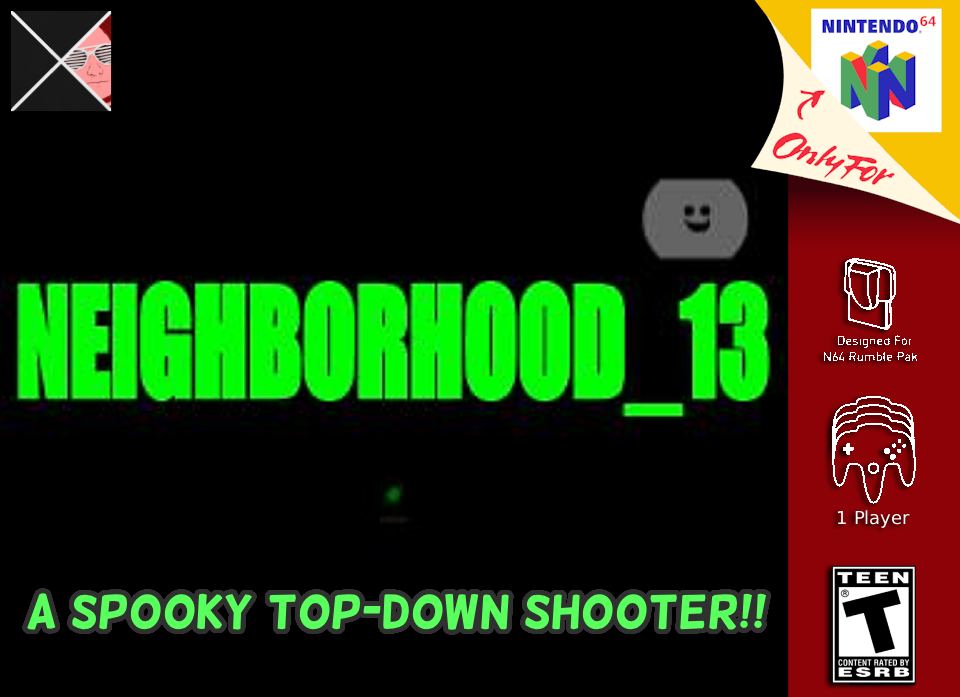
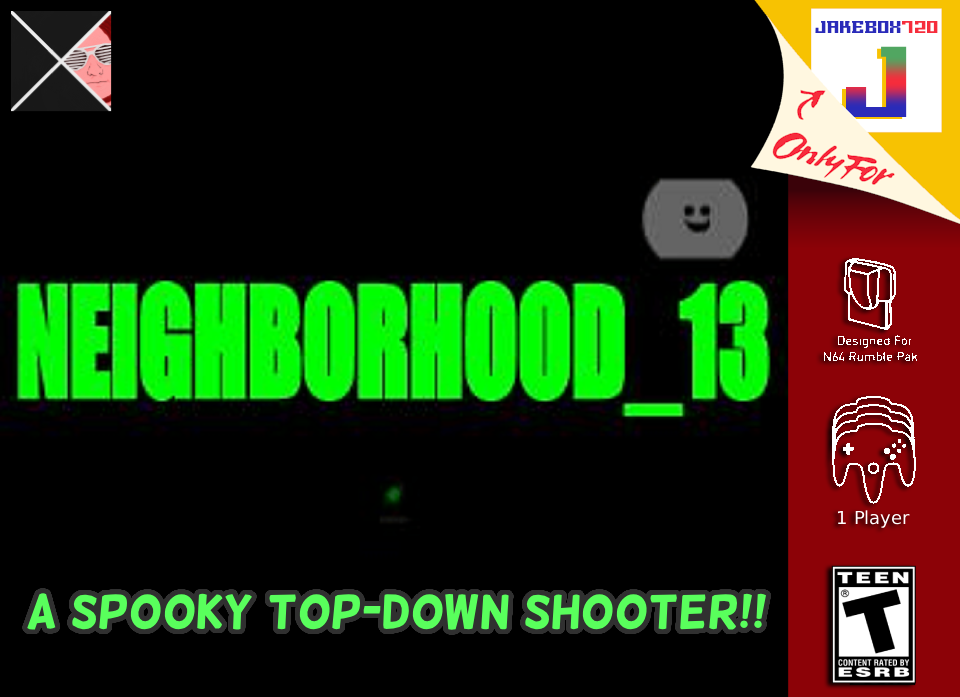
finished mvp

Changed region(s): [[0.8438, 0.0301, 1.0, 0.1808]]

diff --git a/index.html b/index.html
@@ -13,27 +13,52 @@
             </div>
         </header>
         <section>
+            <div class="section_header">
+                <img src="images\main_menu_button.webp" alt="Games">
+                <h2>Games</h2>
+            </div>
             <div class="game_boxes">
-                <a href="https://jakebarnes.itch.io/n13">
-                        <img src="images\game_boxes\Neighborhood_13.webp" alt="Neighborhood 13">
+                <a href="https://jakebarnes.itch.io/boosty-loops-blueprint">
+                        <img src="images\game_boxes\BoostyLoopsBlueprint.webp" alt="Boosty Loops Blueprint">
                 </a>
-                <a href="https://jakebarnes.itch.io/n13">
-                        <img src="images\game_boxes\Neighborhood_13.webp" alt="Neighborhood 13">
+                <a href="https://zuhairghias.itch.io/minion-no1067809362">
+                        <img src="images\game_boxes\Minion.webp" alt="Minion">
                 </a>
-                <a href="https://jakebarnes.itch.io/n13">
-                        <img src="images\game_boxes\Neighborhood_13.webp" alt="Neighborhood 13">
+                <a href="https://zuhairghias.itch.io/bug-bash">
+                        <img src="images\game_boxes\Bug Bash.webp" alt="Bug Bash">
                 </a>
-                <a href="https://jakebarnes.itch.io/n13">
-                        <img src="images\game_boxes\Neighborhood_13.webp" alt="Neighborhood 13">
+                <a href="https://jakebarnes.itch.io/mantis-man">
+                        <img src="images\game_boxes\Mantis Man.webp" alt="Mantis Man">
                 </a>
-                <a href="https://jakebarnes.itch.io/n13">
-                        <img src="images\game_boxes\Neighborhood_13.webp" alt="Neighborhood 13">
+                <a href="https://zuhairghias.itch.io/raising-the-bread">
+                        <img src="images\game_boxes\RaisingTheBread.webp" alt="Raising The Bread">
                 </a>
-                <a href="https://jakebarnes.itch.io/n13">
-                        <img src="images\game_boxes\Neighborhood_13.webp" alt="Neighborhood 13">
+                <a href="https://jakebarnes.itch.io/scp-6787">
+                        <img src="images\game_boxes\SCP6787.webp" alt="SCP-6787">
                 </a>
-                <a href="https://jakebarnes.itch.io/n13">
-                        <img src="images\game_boxes\Neighborhood_13.webp" alt="Neighborhood 13">
+                <a href="https://escapeteam.itch.io/escape">
+                        <img src="images\game_boxes\Escape.webp" alt="Escape">
+                </a>
+                <a href="https://jakebarnes.itch.io/bullet-haven">
+                        <img src="images\game_boxes\BulletHaven.webp" alt="Bullet Haven">
+                </a>
+                <a href="https://jakebarnes.itch.io/primary-prisms">
+                        <img src="images\game_boxes\Primary Prisms.webp" alt="Primary Prisms">
+                </a>
+                <a href="https://jakebarnes.itch.io/space-on-the-page">
+                        <img src="images\game_boxes\SOTP.webp" alt="Space On The Page">
+                </a>
+                <a href="https://gamejolt.com/games/fnaftd/394446">
+                        <img src="images\game_boxes\FNAFTD.webp" alt="FNAF Tower Defense">
+                </a>
+                <a href="https://jakebarnes.itch.io/ptfr">
+                        <img src="images\game_boxes\PTFR.webp" alt="Paint The Floor Red">
+                </a>
+                <a href="https://gamejolt.com/games/onaw/234439">
+                        <img src="images\game_boxes\ONAW.webp" alt="One Night at Waygetter">
+                </a>
+                <a href="https://jakebarnes.itch.io/amity-tower">
+                        <img src="images\game_boxes\Amity Tower.webp" alt="Amity Tower">
                 </a>
                 <a href="https://jakebarnes.itch.io/n13">
                         <img src="images\game_boxes\Neighborhood_13.webp" alt="Neighborhood 13">
@@ -43,6 +68,17 @@
         <script src="main.js"></script>
     </body>
     <footer>
-        
+        <a href="https://github.com/jakebarnescodes">
+            <img class="social_icon" src="images/social_icons/github.png" alt="GitHub">
+        </a>
+        <a href="https://bsky.app/profile/jakebarnes.dev">
+            <img class="social_icon" src="images/social_icons/bluesky.png" alt="BlueSky">
+        </a>
+        <a href="https://www.linkedin.com/in/jakesbarnes/">
+            <img class="social_icon" src="images/social_icons/linkedin.png" alt="LinkedIn">
+        </a>
+        <a href="mailto:jakebarnescodes@pm.me">
+            <img class="social_icon" src="images/social_icons/email.png" alt="Email">
+        </a>
     </footer>
 </html>

diff --git a/main.css b/main.css
@@ -42,7 +42,7 @@ body {
 }
 
 .game_boxes {
-    margin-top: 32px;
+    margin-top: 16px;
     display: grid;
     grid-template-columns: repeat(auto-fit, minmax(100px, 450px));
     max-width: 1500px;
@@ -56,4 +56,39 @@ body {
     box-shadow: black 5px 5px 10px;
     margin: 20px;
     border: 1px solid lightblue;
+}
+
+.section_header {
+    margin-top: 48px;
+    justify-content: center;
+    text-align: center;
+    align-items: center;
+    max-height: 53px;
+    width: auto;
+}
+
+.section_header h2 {
+    position: relative;
+    bottom: 64px;
+    z-index: 10;
+    color: darkslateblue;
+    font-family: sans-serif;
+}
+
+footer {
+    margin-top: 32px;
+    margin-bottom: 32px;
+}
+
+.social_icon {
+    height: 48px;
+    width: auto;
+    padding: 0;
+    margin: 0 10px;
+    background-color: transparent;
+    filter: drop-shadow(5px 5px 5px black);
+}
+
+.social_icon:hover {
+    transform: scale(1.05);
 }
